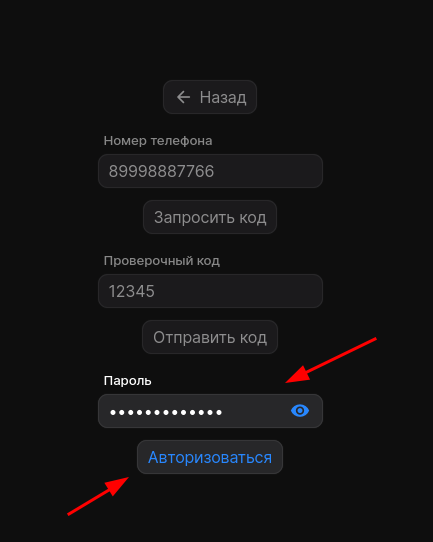
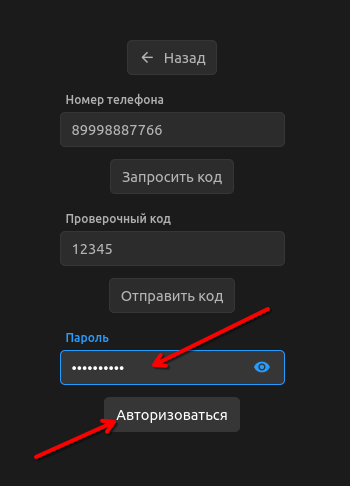
0.1.3

Changed region(s): [[0.1714, 0.0617, 0.8286, 0.8025], [0.0857, 0.8025, 0.6857, 0.9568], [0.8, 0.6173, 0.8857, 0.6481]]

diff --git a/app/src/dialogs/dialogs.js b/app/src/dialogs/dialogs.js
@@ -5,22 +5,11 @@ class AuthHelpDialog {
     #header_dialog = new ContentBlock({
         direction: Styles.DIRECTION.ROW,
         wrap: Styles.WRAP.NOWRAP,
-        align: Styles.ALIGN.CENTER,
-        justify: Styles.JUSTIFY.SPACE_BEETWEEN
-    });
-    #content = new ContentBlock({
-        direction: Styles.DIRECTION.COLUMN,
-        wrap: Styles.WRAP.NOWRAP,
         align: Styles.ALIGN.START,
-        justify: Styles.JUSTIFY.CENTER
+        justify: Styles.JUSTIFY.SPACE_BEETWEEN
     });
 
     constructor() {
-        this.#content.setWidth(Styles.SIZE.WEBKIT_FILL)
-        this.#content.setHeight(Styles.SIZE.MAX_CONTENT)
-        this.#content.add(AuthHelpDialog.#tree())
-        this.#content.disableMarginChild()
-        //
         this.#header_dialog.add(new Label({markdownText: "**Авторизация**"}), new Button({
             icon: Icons.NAVIGATION.CLOSE,
             clickEvent: () => this.#dialog.close()
@@ -29,7 +18,7 @@ class AuthHelpDialog {
         this.#header_dialog.disableMarginChild()
         this.#header_dialog.setPadding("0px 0px 0px 10px");
         this.#dialog.addToHeader(this.#header_dialog)
-        this.#dialog.addToBody(this.#content)
+        this.#dialog.addToBody(AuthHelpDialog.#tree())
         return this.#dialog;
     }
 
@@ -38,11 +27,25 @@ class AuthHelpDialog {
     }
 
     static #tree() {
+        let content_code = new ContentBlock({
+            direction: Styles.DIRECTION.COLUMN,
+            wrap: Styles.WRAP.NOWRAP,
+            align: Styles.ALIGN.CENTER,
+            justify: Styles.JUSTIFY.CENTER
+        });
+        content_code.add(...new Data(data.qr_code_content).parse())
+        let content_phone = new ContentBlock({
+            direction: Styles.DIRECTION.COLUMN,
+            wrap: Styles.WRAP.NOWRAP,
+            align: Styles.ALIGN.CENTER,
+            justify: Styles.JUSTIFY.CENTER
+        });
+        content_phone.add(...new Data(data.phone_content).parse())
         return new TreeView({
             width: Styles.SIZE.WEBKIT_FILL,
             components: [
-                TreeView.ExpandButton({title: "По QR-коду", components: new Data(data.qr_code_content).parse()}),
-                TreeView.ExpandButton({title: "По номеру телефона", components: new Data(data.phone_content).parse()}),
+                TreeView.ExpandButton({title: "По QR-коду", components: [content_code]}),
+                TreeView.ExpandButton({title: "По номеру телефона", components: [content_phone]}),
             ]
         });
     }
@@ -55,13 +58,13 @@ class CreateHelpDialog {
     #header_dialog = new ContentBlock({
         direction: Styles.DIRECTION.ROW,
         wrap: Styles.WRAP.NOWRAP,
-        align: Styles.ALIGN.CENTER,
+        align: Styles.ALIGN.START,
         justify: Styles.JUSTIFY.SPACE_BEETWEEN
     });
     #content = new ContentBlock({
         direction: Styles.DIRECTION.COLUMN,
         wrap: Styles.WRAP.NOWRAP,
-        align: Styles.ALIGN.START,
+        align: Styles.ALIGN.CENTER,
         justify: Styles.JUSTIFY.CENTER
     });
 
@@ -91,121 +94,138 @@ exports.CreateHelpDialog = CreateHelpDialog
 let data = {
     qr_code_content: [
         {
-            text: "1) Нажать кнопку: **По QR-коду**",
+            text: "1. Нажать кнопку: **По QR-коду**.",
             image: {
-                width: "378px",
+                width: Styles.SIZE.MAX_CONTENT,
                 path: `${__dirname}/../../../resources/images/auth/auth_qr/1_auth.png`
             }
         },
         {
-            text: "2) Ввести пороль **двуэтапной вторизации**",
+            text: "2. Ввести пороль **двуэтапной вторизации**.",
         },
         {
-            text: "3) Нажать кнопку: **Сгенерировать**",
+            text: "3. Нажать кнопку: **Сгенерировать**.",
             image: {
-                width: "410px",
+                width: Styles.SIZE.MAX_CONTENT,
                 path: `${__dirname}/../../../resources/images/auth/auth_qr/auth_1_2.png`
             }
         },
         {
-            text: "4) Отсканировать **QR-код** приложением **Telegram**",
+            text: "4. Отсканировать **QR-код** приложением **Telegram**.",
             image: {
-                width: "454px",
+                width: Styles.SIZE.MAX_CONTENT,
                 path: `${__dirname}/../../../resources/images/auth/auth_qr/auth_1_3.png`
             }
         }
     ],
     phone_content: [
         {
-            text: "1) Нажать кнопку: **По номеру**",
+            text: "1. Нажать кнопку: **По номеру**.",
             image: {
-                width: "404px",
+                width: Styles.SIZE.MAX_CONTENT,
                 path: `${__dirname}/../../../resources/images/auth/auth_phone/auth_2.png`
             }
         },
         {
-            text: "2) Ввести в поле: **Номер телефона** номер от учетной записи",
+            text: "2. Ввести в поле: **Номер телефона** номер от учетной записи.",
         },
         {
-            text: "3) Нажать кнопку: **Запросить код**",
+            text: "3. Нажать кнопку: **Запросить код**.",
             image: {
-                width: "401px",
+                width: Styles.SIZE.MAX_CONTENT,
                 path: `${__dirname}/../../../resources/images/auth/auth_phone/auth_2_1.png`
             }
         },
         {
-            text: "4) Ввести в поле: **Проверочный код** 5-ти значный код, который должен прийти в **Telegram**",
+            text: "4. Ввести в поле: **Проверочный код** 5-ти значный код, который должен прийти в **Telegram**.",
         },
         {
-            text: "5) Нажать кнопку: **Отправить код**",
+            text: "5. Нажать кнопку: **Отправить код**.",
             image: {
-                width: "443px",
+                width: Styles.SIZE.MAX_CONTENT,
                 path: `${__dirname}/../../../resources/images/auth/auth_phone/auth_2_2.png`
             }
         },
         {
-            text: "6) Ввести пороль **двуэтапной вторизации** в поле: **Пароль**",
+            text: "6. Ввести пороль **двуэтапной вторизации** в поле: **Пароль**.",
         },
         {
-            text: "7) Нажать кнопку: **Авторизоваться**",
+            text: "7. Нажать кнопку: **Авторизоваться**.",
             image: {
-                width: "433px",
+                width: Styles.SIZE.MAX_CONTENT,
                 path: `${__dirname}/../../../resources/images/auth/auth_phone/auth_2_3.png`
             }
         }
     ],
     create_chat_content: [
         {
-            text: "1) Выбрать **список пользователей**",
+            text: "1. Выбрать **систему(ы)** и сервис(ы).",
             image: {
-                width: "-webkit-fill-available",
+                width: Styles.SIZE.MAX_CONTENT,
                 path: `${__dirname}/../../../resources/images/create_chat/1.png`
             }
         },
         {
-            text: "**Дождаться появления уведомления**",
+            text: "**Дождаться появления уведомлений**.",
             image: {
-                width: "292px",
+                width: Styles.SIZE.MAX_CONTENT,
                 path: `${__dirname}/../../../resources/images/create_chat/1_2.png`
             }
         },
         {
-            text: "2) Заполнить поле: **Номер инцидента**",
             image: {
-                width: "-webkit-fill-available",
+                width: Styles.SIZE.MAX_CONTENT,
+                path: `${__dirname}/../../../resources/images/create_chat/1_3.png`
+            }
+        },
+        {
+            text: "2. Заполнить поле: **Номер инцидента**.",
+            image: {
+                width: Styles.SIZE.MAX_CONTENT,
                 path: `${__dirname}/../../../resources/images/create_chat/2.png`
             }
         },
         {
-            text: "3) Заполнить поле: **Описание инцидента**",
+            text: "3. Заполнить поле: **Описание инцидента**.",
             image: {
-                width: "-webkit-fill-available",
+                width: Styles.SIZE.MAX_CONTENT,
                 path: `${__dirname}/../../../resources/images/create_chat/3.png`
             }
         },
         {
-            text: "4) Заполнить поле: **Закрепленное сообщение** при необходимости",
+            text: "4. Заполнить поле: **Закрепленное сообщение** при необходимости.",
             image: {
-                width: "-webkit-fill-available",
+                width: Styles.SIZE.MAX_CONTENT,
                 path: `${__dirname}/../../../resources/images/create_chat/4.png`
             }
         },
         {
-            text: "5) Нажать кнопку: **Создать чат**",
+            text: "5. Нажать кнопку: **Создать чат**.",
             image: {
-                width: "137px",
+                width: Styles.SIZE.MAX_CONTENT,
                 path: `${__dirname}/../../../resources/images/create_chat/5.png`
             }
         },
         {
-            text: "6) Дождаться заполнения **прогресс бара** и появления сообщения: **Чат успешно создан!**",
+            text: "**Подтвердить создание чата**.",
             image: {
-                width: "-webkit-fill-available",
+                width: Styles.SIZE.MAX_CONTENT,
+                path: `${__dirname}/../../../resources/images/create_chat/5_1.png`
+            }
+        },
+        {
+            text: "6. Дождаться заполнения **прогресс бара** и появления сообщения: **Чат успешно создан!**.",
+            image: {
+                width: Styles.SIZE.MAX_CONTENT,
                 path: `${__dirname}/../../../resources/images/create_chat/6.png`
             }
         },
         {
-            text: "7) Нажать кнопку: **Закрыть** и проверить создание чата в **Telegram**",
+            text: "7. Нажать кнопку: **Закрыть** и проверить создание чата в **Telegram**.",
+            image: {
+                width: Styles.SIZE.MAX_CONTENT,
+                path: `${__dirname}/../../../resources/images/create_chat/7.png`
+            }
         }
     ]
 }
@@ -225,7 +245,7 @@ class Data {
             if (text !== undefined) contents.push(new Label({
                 markdownText: text,
                 wordBreak: "break-word",
-                width: "-webkit-fill-available"
+                //width: Styles.SIZE.MAX_CONTENT
             }))
             if (image !== undefined) contents.push(new Image({path: block.image.path, width: block.image.width}))
         }

diff --git a/app/TelegramSrc.js b/app/TelegramSrc.js
@@ -262,8 +262,17 @@ class TelegramSrc {
             await this.#setProgressText('Корректировка сообщения...')
             await this.#setProgressValue(55)
             let message = report.pinMessage.toString().replaceAll("<p>", "").replaceAll("</p>", "").split('\n');
-            message[1] = test_test.join("\n")
-            message.push(`\n<b>Приглашение в оперативный чат:</b> ${tg_link}`)
+            if (userList.main_users.length === 1 && userList.main_users.filter(users => users.is === 'ОПМПМ ЛК ОИС').length > 0) {
+                let resizeMess = message
+                message = []
+                for (let mess of resizeMess) {
+                    if (resizeMess.indexOf(mess) !== 1 && resizeMess.indexOf(mess) !== 2) message.push(mess)
+                }
+                message.push(`\n<b>Приглашение в оперативный чат:</b> ${tg_link}`)
+            } else {
+                message[1] = test_test.join("\n")
+                message.push(`\n<b>Приглашение в оперативный чат:</b> ${tg_link}`)
+            }
             const new_message = message.join('\n')
 
             //Отправка сообщения
